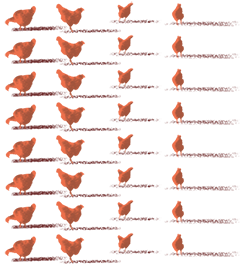
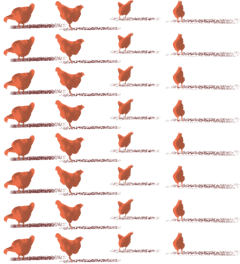
changes

diff --git a/src/index.html b/src/index.html
@@ -1,6 +1,6 @@
 <div class="watchman__header lazyload-container audio-section">
     <div class="gs-container">
-        <h2 class="header__description">Exclusive extract: chapter one</h2>
+        <h2 class="header__description">Exclusive extract<br /> Chapter one</h2>
         <h1 class="header__title">Go Set A Watchman</h1>
         <h1 class="header__byline">by Harper Lee</h1>
        <!--  <div class="header__title">
@@ -285,6 +285,7 @@
             <p>She smiled brilliantly and said, “Hank, I agree with everything you’ve said. You are the most perspicacious individual I’ve met in years, you are six feet five, and may I light your cigarette? How’s that?”</p>
             <p>“Awful.”</p>
             <p>They were friends again.</p>
+            <p class="credit-paragraph"><em>Illustration by Tom Clohosy Cole</em></p>
             <p class="bookshop-paragraph"><em>This is an extract from Go Set A Watchman by Harper Lee, published on 14 July by William Heinemann at £18.99. To order a copy for the special price of £9.99, <a href=" http://bookshop.theguardian.com/catalog/product/view/id/297369/?utm_source=editoriallink&utm_medium=merch&utm_campaign=article">click here</a> or call 0330 333 6846. Price valid until 31 July 2015.</em></p>
             <p class="trail-paragraph"><em>Buy the Guardian on 11 July for your 16-page souvenir Harper Lee supplement, free inside Weekend magazine. Featuring the whole first chapter of Go Set A Watchman, plus Oprah Winfrey on lunch with Harper Lee, actress Mary Badham on playing Scout, and more.</em></p>
         </div>

diff --git a/src/css/modules/_header.scss b/src/css/modules/_header.scss
@@ -1,7 +1,6 @@
 .watchman__header {
     position: relative;
     z-index: 10;
-    // height: 900px; 
     height:680px;
     color: $c-white;
     background: $c-dark-yellow url("@@assetPath@@/assets/bg.jpg") repeat-x;
@@ -10,16 +9,14 @@
     font-family: $f-serif-headline;
     font-weight: 900;
     line-height: 1.1;
-    @media(min-width:480px){
-        height:900px;
-    }
 
     @include mq(tablet) {
         background-position-y:-180px;
+        height: 740px;
     }
 
     .gs-container {
-        padding-top: 48px;
+        padding-top: 68px;
     }
 }
 
@@ -30,17 +27,12 @@
 
     @include mq(tablet) {
         font-size: 4.6rem;
-        text-indent: 100px;
         margin-bottom: -0.075em;
     }
 }
 
 .header__byline {
     font-size: 1.8rem;
-
-    @include mq(tablet) {
-          text-indent: 327px;
-    }
 }
 
 .header__description {
@@ -130,6 +122,7 @@
 .header-scene__plane {
     position: absolute;
     left: 80%;
+    top: 8%;
 }
 
 .header-scene__train {

diff --git a/src/css/modules/_body.scss b/src/css/modules/_body.scss
@@ -28,12 +28,17 @@
         }
 
         &.bookshop-paragraph,
-        &.trail-paragraph {
+        &.trail-paragraph,
+        &.credit-paragraph {
             margin-top: 22px;
             border-top: 1px dotted #dfdfdf;
             padding-top: 6px;
             margin-bottom: 34px;
             text-indent: 0;
+        }
+
+        &.credit-paragraph {
+            border-top-style: solid;
         }
     }
 
@@ -444,7 +449,7 @@
             background-position: 0px 0px;
         }
         100% {
-            background-position: 0px -240px;
+            background-position: 0px -264px;
         }
     }
 
@@ -456,7 +461,7 @@
         width: 240px;
         background-size: cover;
         background-repeat: no-repeat;
-        animation: chicken 1s infinite steps(7);
+        animation: chicken 1s infinite steps(8);
         will-change: background-position;
     }
 
